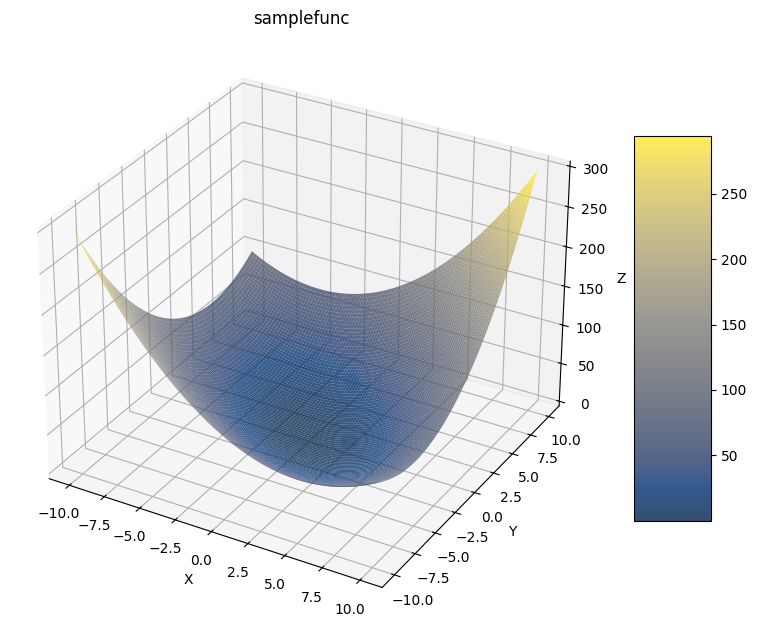
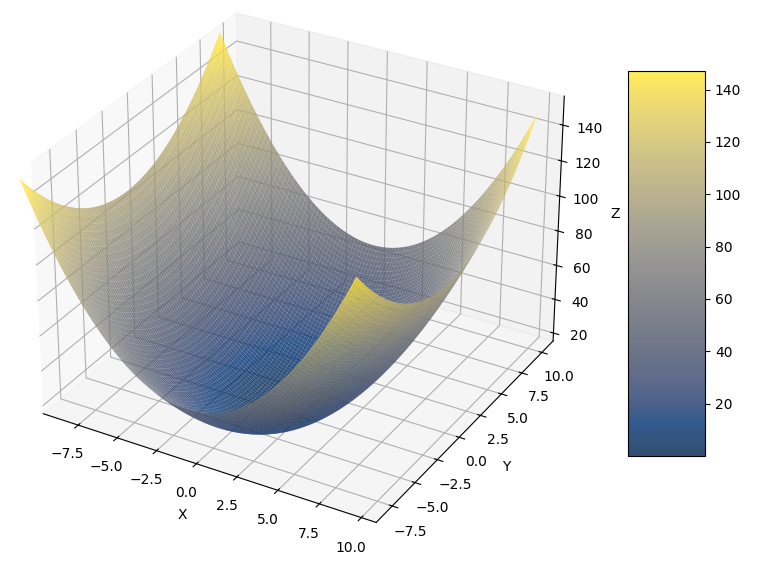
damped newton method added

Changed region(s): [[0.0312, 0.0, 0.9688, 0.9929], [0.4375, 0.9628, 0.4688, 0.9929]]

diff --git a/utils/first_order.py b/utils/first_order.py
@@ -15,6 +15,7 @@ class GradientDescent (Optim):
 
     def _reset (self) -> None : 
         self.alpha = 0.01
+        self.num_iter = 0
         return
 
     def _next (self, x: ndarray, func_callback, grad_func_callback) -> ndarray : 
@@ -33,6 +34,7 @@ class GradientDescent (Optim):
         plot_points : list[ndarray] = [x]
 
         while (grad_mod_callback(x) > EPSILON): 
+            self.num_iter += 1
             x = self._next(x, func_callback, grad_func_callback)
 
             if is_plot :
@@ -59,6 +61,7 @@ class NesterovAcceleratedGradientDescent (Optim):
         self.alpha = 0.01 
         self.momemtum_coff  = 0.75
         self.momentum : ndarray | None = None;
+        self.num_iter = 0
         return
 
 
@@ -76,6 +79,7 @@ class NesterovAcceleratedGradientDescent (Optim):
         plot_points : list[ndarray] = [x]
 
         while (grad_mod_callback(x) > EPSILON): 
+            self.num_iter += 1
             x = self._next(x, grad_func_callback)
 
             if is_plot :
@@ -98,6 +102,7 @@ class Adagrad (Optim):
 
     def _reset (self) -> None : 
         self.sq_grad_acc: ndarray | None = None;
+        self.num_iter = 0
         return
 
 
@@ -114,6 +119,7 @@ class Adagrad (Optim):
         plot_points : list[ndarray] = [x]
 
         while (grad_mod_callback(x) > EPSILON): 
+            self.num_iter += 1
             x = self._next(x, grad_func_callback)
 
             if is_plot :
@@ -138,6 +144,7 @@ class RMSProp(Optim):
 
     def _reset (self) -> None : 
         self.sq_grad_acc: ndarray | None = None;
+        self.num_iter = 0
         return
 
 
@@ -154,6 +161,7 @@ class RMSProp(Optim):
         plot_points : list[ndarray] = [x]
 
         while (grad_mod_callback(x) > EPSILON): 
+            self.num_iter += 1
             x = self._next(x, grad_func_callback)
 
             if is_plot :
@@ -180,6 +188,7 @@ class Adam (Optim):
     def _reset (self) -> None : 
         self.first_order_acc : ndarray | None = None
         self.second_order_acc : ndarray | None = None
+        self.num_iter = 0
         return
 
 
@@ -208,6 +217,7 @@ class Adam (Optim):
         plot_points : list[ndarray] = [x]
 
         while (grad_mod_callback(x) > EPSILON): 
+            self.num_iter += 1
             x = self._next(x, grad_func_callback)
 
             if is_plot :
@@ -231,7 +241,8 @@ class Subgradient (Optim):
 
     def _reset (self) -> None : 
         self.alpha = 0.01
-        self.K
+        self.K = 100
+        self.num_iter = 0
         return
 
     def _next (self, x: ndarray, func_callback, grad_func_callback) -> ndarray : 
@@ -249,6 +260,7 @@ class Subgradient (Optim):
         self.f_best = func_callback(x)
 
         while (grad_mod_callback(x) > EPSILON and self.K > 0): 
+            self.num_iter += 1
             x = self._next(x, func_callback, grad_func_callback)
 
             if is_plot :

diff --git a/utils/second_order.py b/utils/second_order.py
@@ -1,39 +1,46 @@
 import numpy as np
 from numpy import ndarray
+from numpy.linalg import inv, eig
 from utils.base import Optim, Function
 
 EPSILON = 0.0001
 
-class GradientDescent (Optim): 
+class DampedNewton (Optim): 
     '''
-    Gradient Descent - description
+    Levenberg-Marquardt Modification - description
     '''
-    def __init__ (self, damp_factor: float = 0.01, alpha_optim : None | Optim  = None) -> None: 
+    def __init__ (self, alpha : float = 0.01, damp_factor: float = 0.1, alpha_optim : None | Optim  = None) -> None: 
         self.damp_factor = damp_factor
-        self.alpha_optim = alpha_optim
         return 
 
     def _reset (self) -> None : 
-        self.alpha = 0.01
+        self.damp_factor = 0.1
+        self.num_iter = 0
         return
 
-    def _next (self, x: ndarray, func_callback, grad_func_callback) -> ndarray : 
+    def _next (self, x: ndarray, func_callback, grad_func_callback, hessian_func_callback) -> ndarray : 
+        # checking for positive definite hessian 
+        if (eig(hessian_func_callback(x))[0].all() > 0):
+            return x - inv(hessian_func_callback(x)) @ grad_func_callback(x)
 
-        if isinstance(self.alpha_optim, Optim) : 
+        # if not a positive definite hessian
+        else:   
+            # Levenberg-Marquardt modification
+            delta = inv(hessian_func_callback(x) + self.damp_factor * np.identity(x.shape[0])) @ grad_func_callback(x)
 
-            self.alpha = self.alpha_optim.optimize(
-                    func_callback= lambda alpha : func_callback(x - alpha * grad_func_callback(x)),
-                    lower_bound = 0, upper_bound = 1
-                    ) 
+            # checking if delta is in the decent direction 
+            while (func_callback(x) < func_callback(x - delta)) : 
+                self.damp_factor += 0.1
+                delta = inv(hessian_func_callback(x) + self.damp_factor * np.identity(x.shape[0])) @ grad_func_callback(x)
 
-        # print(f"Alpha : {self.alpha}")
-        return x - self.alpha * grad_func_callback(x)
+            return x - delta
 
     def optimize (self, x: ndarray, func_callback, grad_func_callback, hessian_func_callback, grad_mod_callback, is_plot : bool = False) -> ndarray | tuple[ndarray,list[ndarray]]: 
         plot_points : list[ndarray] = [x]
 
         while (grad_mod_callback(x) > EPSILON): 
-            x = self._next(x, func_callback, grad_func_callback)
+            self.num_iter += 1
+            x = self._next(x, func_callback, grad_func_callback, hessian_func_callback)
 
             if is_plot :
                 plot_points.append(x)

diff --git a/main.py b/main.py
@@ -17,35 +17,41 @@ from utils.functions import (
          Trid, 
          PiecewiseLinear
         )
+
+from utils.second_order import (
+        DampedNewton
+        )
+
 from utils.line_search import GoldenSearch
 
 
 
 if __name__ == "__main__":
-    x = np.array([5,7])
+    # declare a funciton 
+    f = lambda x : x[0] ** 2 + 0.5 * x[1] ** 2
 
-    adam = Adam()
+    # pass into Funtion object
+    sampleFunc = Function (f, name = "samplefunc")
 
-    sg = Subgradient()
-    f  = lambda x : x[0] ** 2 + x[0] * x[1] + x[1] ** 2
-    myfunc = Function(f)
+    # plot the function
+    sampleFunc.plot()
 
-    print(PiecewiseLinear.optimize(x, optim= sg , is_plot= True))
+    # get value for a specific point
+    x = np.array([5,2])
 
+    func_val = sampleFunc(x)
+    grad_val = sampleFunc.grad(x)
+    hess_val = sampleFunc.hessian(x)
 
-
-
-    # Rastrigin.plot([x])
-    # print(Rastrigin(x), Rastrigin.grad(x), Rastrigin.hessian(x), sep = "\n")
+    print(f"At {x}\nF(x) = {func_val}\nG(x) = {grad_val}\nH(x) = {hess_val}")
     
+    # define optimization algorithms
+    gs = GoldenSearch () 
+    gd = GradientDescent (alpha = 0.01, alpha_optim = gs)
 
-    # sg = Subgradient()
-    # print(PiecewiseLinear.optimize(x, optim =sg, is_plot = True))
+    # optimize and plot trajectory
+    x = np.array([7,10])
+    soln = sampleFunc.optimize (x, optim= gd, is_plot = True)
+    print(f"Optimize x : {soln}")
 
 
-    
-    # adam = Adam()
-    # print(Rastrigin.optimize(x, optim=adam, is_plot= True))
-    # print(Ackley.optimize(x, optim= adam, is_plot= True))
-    # print(RosenBrock.optimize(x,optim=adam, is_plot= True))
-    # print(Trid.optimize(x, optim = adam, is_plot= True))

diff --git a/utils/base.py b/utils/base.py
@@ -4,12 +4,14 @@ from abc import abstractmethod, ABC
 import matplotlib.pyplot as plt
 from mpl_toolkits.mplot3d import Axes3D
 
-EPS = 1e-8
+EPS = 1e-6
 
 class Optim (ABC): 
     '''
     Base class for optimizers
     '''
+    num_iter : int = 0
+
     @abstractmethod
     def optimize (self, x : ndarray, func_callback, grad_func_callback, hessian_func_callback, grad_mod_callback, is_plot : bool) -> ndarray | tuple[ndarray,list[ndarray]]:
         pass

diff --git a/README.md b/README.md
@@ -33,7 +33,7 @@ pip install -r requirement.txt
 Command :
 ```python
 # declare a funciton 
-f = lambda x : x[0] ** 2  +  x[0]*x[1]  + x[1] ** 2
+f = lambda x : x[0] ** 2 + 0.5 * x[1] ** 2
 
 # pass into Funtion object
 sampleFunc = Function (f, name = "samplefunc")
@@ -42,7 +42,8 @@ sampleFunc = Function (f, name = "samplefunc")
 sampleFunc.plot()
 ```
 
-Output :
+Output : 
+
 ![image](./src/Figure_1.png)
 
 Command : 
@@ -60,10 +61,10 @@ print(f"At {x}\nF(x) = {func_val}\nG(x) = {grad_val}\nH(x) = {hess_val}")
 Output : 
 ```console
 At [5 2]
-F(x) = 39
-G(x) = [11.99999993  9.00000003]
-H(x) = [[71.05427358  0.]
- [ 0. 0.]]
+F(x) = 27.0
+G(x) = [10.  2.]
+H(x) = [[2.0001778  0.]
+ [0. 0.99831254]]
 ```
 
 Command : 
@@ -80,8 +81,10 @@ print(f"Optimize x : {soln}")
 
 Output : 
 ```console
-Optimize x : [-2.40197597e-05  3.90572496e-05]
+Optimize x : [2.80677703e-05 3.93062445e-05]
 ```
+
+![image](./src/Figure_2.png)
 
 ## Contributing
 
